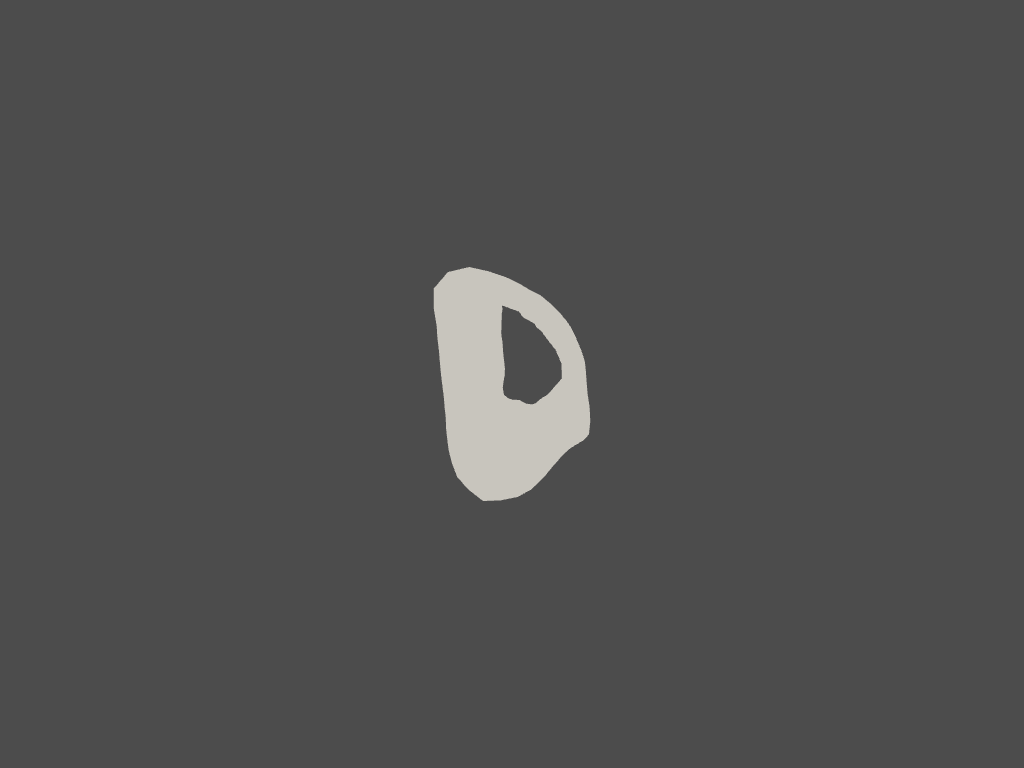
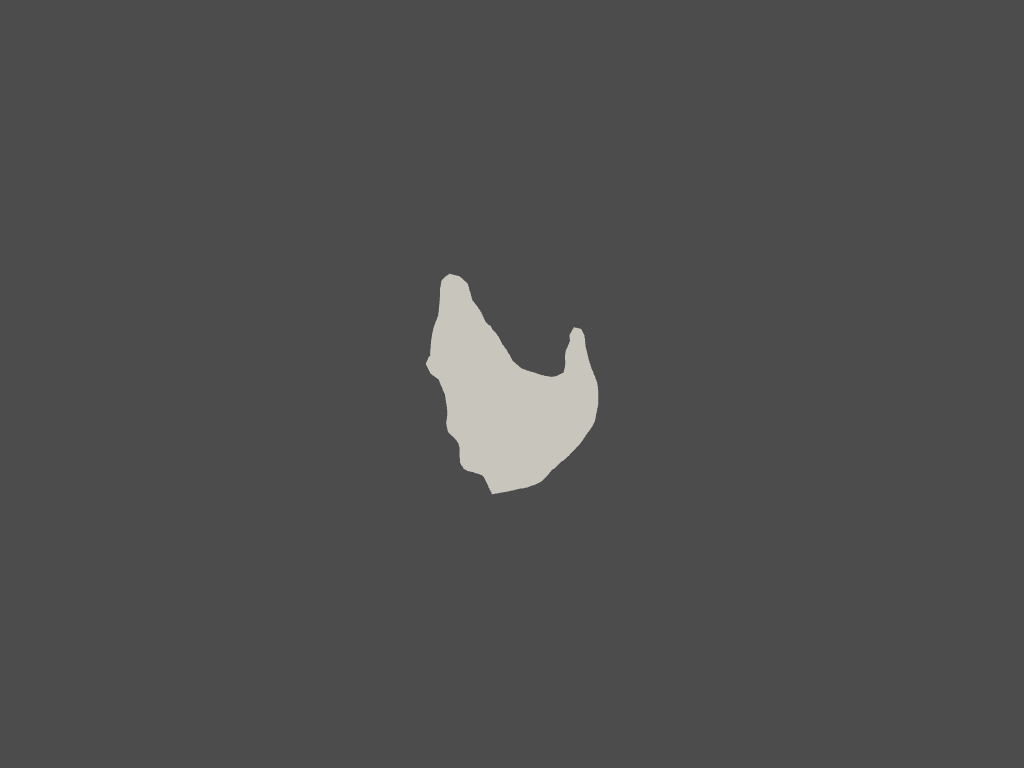
#145  try inner circle method

Changed region(s): [[0.4062, 0.3438, 0.5938, 0.5625], [0.4375, 0.5625, 0.5312, 0.6562], [0.5312, 0.5938, 0.5625, 0.625]]

diff --git a/knee_stress_predict/objects/ComplexFeatureExtracter.py b/knee_stress_predict/objects/ComplexFeatureExtracter.py
@@ -1,7 +1,7 @@
 from pathlib import Path
 from knee_stress_predict.config import raw_data_dir, processed_data_dir
 from knee_stress_predict.objects.KneeGeometry import KneeGeometry
-from knee_stress_predict.objects.Contour import get_img_cnts
+from knee_stress_predict.objects.Contour import get_img_cnts, get_cnt_center, get_cnt_center
 import numpy as np
 import pyvista as pv
 import pandas as pd
@@ -14,17 +14,17 @@ def plot_curv_subdivisions(patients_knees,data):
     for key, value in patients_knees.items():
         p.subplot(i // 7, i % 7)
         # extract the surface and plot it
-        surf_lat = value.tibia_cart_lat.extract_surface()
         surf_med = value.tibia_cart_med.extract_surface()
+        surf_lat = value.tibia_cart_lat.extract_surface()
 
-        curv_lat = surf_lat.curvature()
         curv_med = surf_med.curvature()
+        curv_lat = surf_lat.curvature()
 
         # I decided to look at the absolute value of curvature. Not sure if it is the best way.
         #  Also, the edges of cartilage affect curvature a lot; as a suggestion to overcome this issue
         #  we can use CurvaturesAdjustEdges from vtk: https://kitware.github.io/vtk-examples/site/Python/PolyData/CurvaturesAdjustEdges/
-        mean_curv_lat = np.mean(abs(curv_lat))
         mean_curv_med = np.mean(abs(curv_med))
+        mean_curv_lat = np.mean(abs(curv_lat))
 
         p.add_mesh(surf_lat, scalars=curv_lat)
         p.add_mesh(surf_med, scalars=curv_med)
@@ -158,7 +158,7 @@ def evaluate_cartilage(patients_knees, data):
 
 
 if __name__ == '__main__':
-    path = Path.joinpath(raw_data_dir, "set_2/9993650M00")
+    path = Path.joinpath(raw_data_dir, "set_2/9968924M00")
     knee = KneeGeometry(path)
 
     # extract the surface of cartilage
@@ -198,6 +198,20 @@ if __name__ == '__main__':
 
     cv2.imshow("mask", mask)
     cv2.waitKey(0)
+    dist = cv2.distanceTransform(mask, cv2.DIST_L2, 5)
+
+    radius_inner_circle = int(np.max(dist))
+    origin = get_cnt_center(cnt)
+
+    mask2 = np.zeros_like(img)
+    cv2.circle(mask2, center=origin, radius=radius_inner_circle, color=(255, 255, 255), thickness=2)
+    cv2.drawContours(mask2, cnt, -1, 255, -1)
+    cv2.imshow("mask2", mask2)
+    cv2.waitKey(0)
+
+ #************************************************************************#
+
+    a = 1
 
 
     # patients_knees = {}
